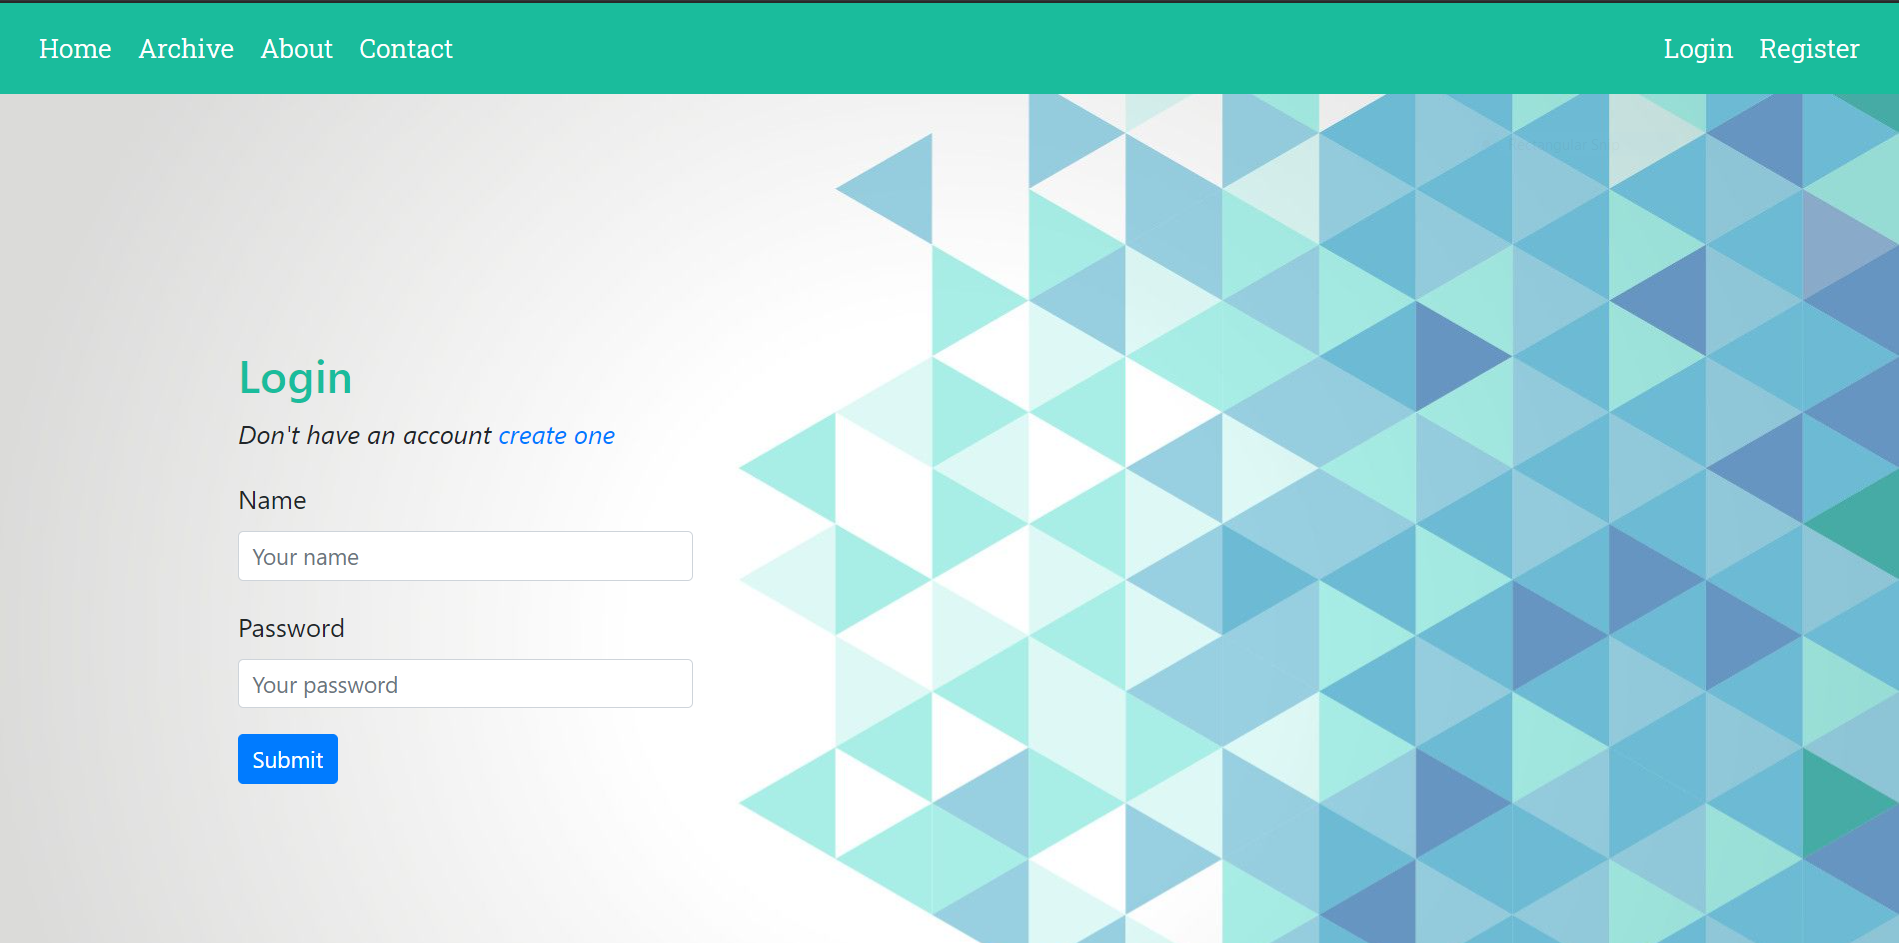
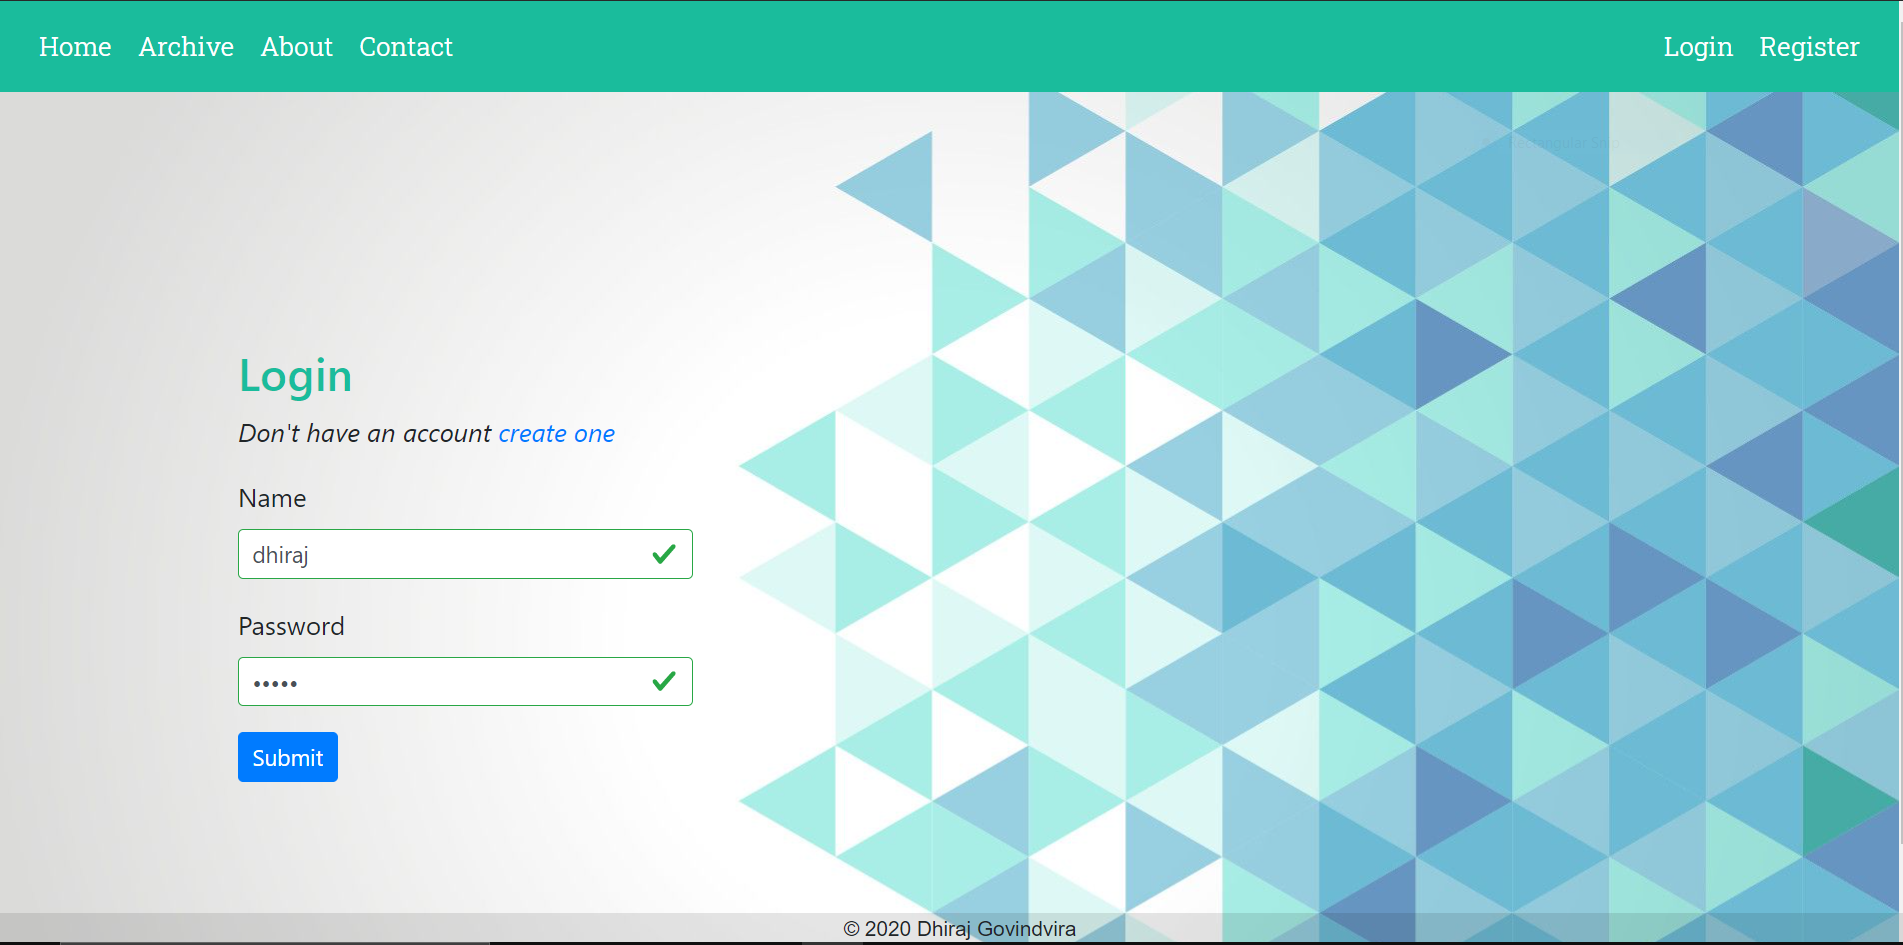
small updates.

diff --git a/frontend/src/app/register/register.component.html b/frontend/src/app/register/register.component.html
@@ -9,25 +9,29 @@
                         <a routerLink="/login">login</a>
                     </div>
                 </div>
-                <form class="pt-3" (ngSubmit)="register()" [formGroup]="registerForm" method="post">
+                <form class="pt-3 was-validated" (ngSubmit)="register()" [formGroup]="registerForm" method="post">
                     <div class="form-group">
-                        <label>Name</label>
-                        <input formControlName="user" type="text" class="form-control form-control-sm" placeholder="Your name">
-                        <small>User name must be unique.</small>
+                        <label for="name">Name</label>
+                        <input formControlName="user" id="name" type="text" class="form-control form-control-sm" placeholder="Your name" required>
+                        <small class="font-italic">User name must be unique.</small>
+                        <div class="invalid-feedback">Please fill out your name.</div>
                     </div>
                     <div class="form-group">
-                        <label>Email</label>
-                        <input formControlName="email" type="email" class="form-control form-control-sm" placeholder="Your email">
+                        <label for="email">Email</label>
+                        <input formControlName="email" id="email" type="email" class="form-control form-control-sm" placeholder="Your email" required>
+                        <div class="invalid-feedback">Please fill out your email.</div>
                     </div>
                     <div class="form-group">
-                        <label>Password</label>
-                        <input formControlName="password" type="password" class="form-control form-control-sm" placeholder="Your password">
+                        <label for="password">Password</label>
+                        <input formControlName="password" id="password" type="password" class="form-control form-control-sm" placeholder="Your password" required>
+                        <div class="invalid-feedback">Please fill out this field.</div>
                     </div>
                     <div class="form-group">
-                        <label>Repeat Password</label>
-                        <input formControlName="repassword" type="password" class="form-control form-control-sm" placeholder="Your password">
+                        <label for="repassword">Repeat Password</label>
+                        <input formControlName="repassword" id="repassword" type="password" class="form-control form-control-sm" placeholder="Your password" required>
+                        <div class="invalid-feedback">Please fill out this field.</div>
                     </div>
-                    <button class="btn btn-primary btn-sm">Submit</button>
+                    <button class="btn btn-primary btn-sm" [disabled]="registerForm.invalid">Submit</button>
                 </form>
             </div>
         </div>

diff --git a/frontend/src/app/contact/contact.component.html b/frontend/src/app/contact/contact.component.html
@@ -2,26 +2,26 @@
     <div class="row h-100">
         <div class="col"></div>
         <div class="col center">
-            <div>
+            <div class="form-group">
                 <h3 class="clr1">Contact Us</h3>
-                <div>
+                <div class="was-validated">
                     <div class="form-group">
                         <label>Name</label>
-                        <input type="text" class="form-control form-control-sm" placeholder="Your name">
+                        <input type="text" class="form-control form-control-sm" placeholder="Your name" required>
                     </div>
                     <div class="form-group">
                         <label>Email</label>
-                        <input type="text" class="form-control form-control-sm" placeholder="Your email">
+                        <input type="text" class="form-control form-control-sm" placeholder="Your email" required>
                     </div>
                     <div class="form-group">
                         <label>Subject</label>
-                        <input type="text" class="form-control form-control-sm" placeholder="Subject">
+                        <input type="text" class="form-control form-control-sm" placeholder="Subject" required>
                     </div>
                     <div class="form-group">
                         <label>Message</label>
-                        <textarea class="form-control form-control-sm" rows="5" placeholder="Your message here"></textarea>
+                        <textarea class="form-control form-control-sm" rows="5" placeholder="Your message here" required></textarea>
                     </div>
-                    <button class="btn btn-primary btn-sm" routerLink="/home">Submit</button>
+                    <button class="btn btn-primary btn-sm" [routerLink]="'/home'">Submit</button>
                 </div>
             </div>
         </div>

diff --git a/frontend/src/app/login/login.component.html b/frontend/src/app/login/login.component.html
@@ -9,16 +9,16 @@
                         <a routerLink="/register">create one</a>
                     </div>
                 </div>
-                <form class="pt-3" (ngSubmit)="login()" [formGroup]="loginForm" method="post">
+                <form class="pt-3 was-validated" (ngSubmit)="login()" [formGroup]="loginForm" method="post">
                     <div class="form-group">
-                        <label>Name</label>
-                        <input type="text" formControlName="user" class="form-control form-control-sm" placeholder="Your name" required>
+                        <label for="name">Name</label>
+                        <input type="text" id="name" formControlName="user" class="form-control form-control-sm" placeholder="Your name" required>
                         <small *ngIf="loginForm.get('user').hasError('required') && !loginForm.get('user').untouched" class="text-danger font-italic">Username required!</small>
                     </div>
 
                     <div class="form-group">
-                        <label>Password</label>
-                        <input type="password" formControlName="password" class="form-control form-control-sm" placeholder="Your password" required>
+                        <label for="password">Password</label>
+                        <input type="password" id="password" formControlName="password" class="form-control form-control-sm" placeholder="Your password" required>
                         <small *ngIf="loginForm.get('password').hasError('required') && !loginForm.get('password').untouched" class="text-danger font-italic">password required!</small>
                     </div>
                     <button class="btn btn-primary btn-sm" [disabled]="loginForm.invalid">Submit</button>

diff --git a/frontend/src/app/archive/archive.component.html b/frontend/src/app/archive/archive.component.html
@@ -9,12 +9,12 @@
                             <i class="fa fa-search"></i>
                         </span>
                     </div>
-                    <input class="form-control" placeholder="Search here" (keyup)="filter($event.target.value)">
+                    <input class="form-control" placeholder="Search here blog, author, published date ..." (keyup)="filter($event.target.value)">
                 </div>
             </div>
             <div class="col-2">
-                <!-- <button class="btn btn-dark" [routerLink]="'/blog/edit'">Create Blog</button> -->
                 <button class="btn btn-dark" routerLink="/blog/create">Create Blog</button>
+                <!-- <button class="btn btn-dark" [routerLink]="'/blog/edit'">Create Blog</button> -->
             </div>
         </div>
     </div>

diff --git a/frontend/src/app/blog-edit/blog-edit.component.html b/frontend/src/app/blog-edit/blog-edit.component.html
@@ -27,7 +27,8 @@
                 <textarea [(ngModel)]="blog.content" id="content" formControlName="content" class="font1 form-control form-control-sm" rows="15" required></textarea>
                 <small *ngIf="blogForm.get('content').hasError('required') && blogForm.get('content').touched" class="text-danger font-italic">blog content required!</small>
             </div>
-            <button class="btn btn-primary btn-sm">Update</button>
+            <button class="btn btn-dark btn-sm" routerLink="/blog/view/{{blog_id}}" >Cancel</button>
+            <button class="btn btn-primary btn-sm ml-2" [disabled]="blogForm.invalid">Update</button>
         </form>
     </div>
 </div>

diff --git a/frontend/src/app/blog-create/blog-create.component.html b/frontend/src/app/blog-create/blog-create.component.html
@@ -27,7 +27,7 @@
                 <textarea id="content" formControlName="content" class="font1 form-control form-control-sm" rows="15" placeholder="blog content" required></textarea>
                 <small *ngIf="blogForm.get('content').hasError('required') && blogForm.get('content').touched" class="text-danger font-italic">blog content required!</small>
             </div>
-            <button class="btn btn-primary btn-sm">Create</button>
+            <button class="btn btn-primary" [disabled]="blogForm.invalid">Create</button>
         </form>
     </div>
 </div>

diff --git a/frontend/src/app/blog-view/blog-view.component.css b/frontend/src/app/blog-view/blog-view.component.css
@@ -12,3 +12,6 @@
     white-space: -pre-wrap;
     white-space: -o-pre-wrap;
 }
+.bg-gray {
+    background-color: #faf9f9;
+}
